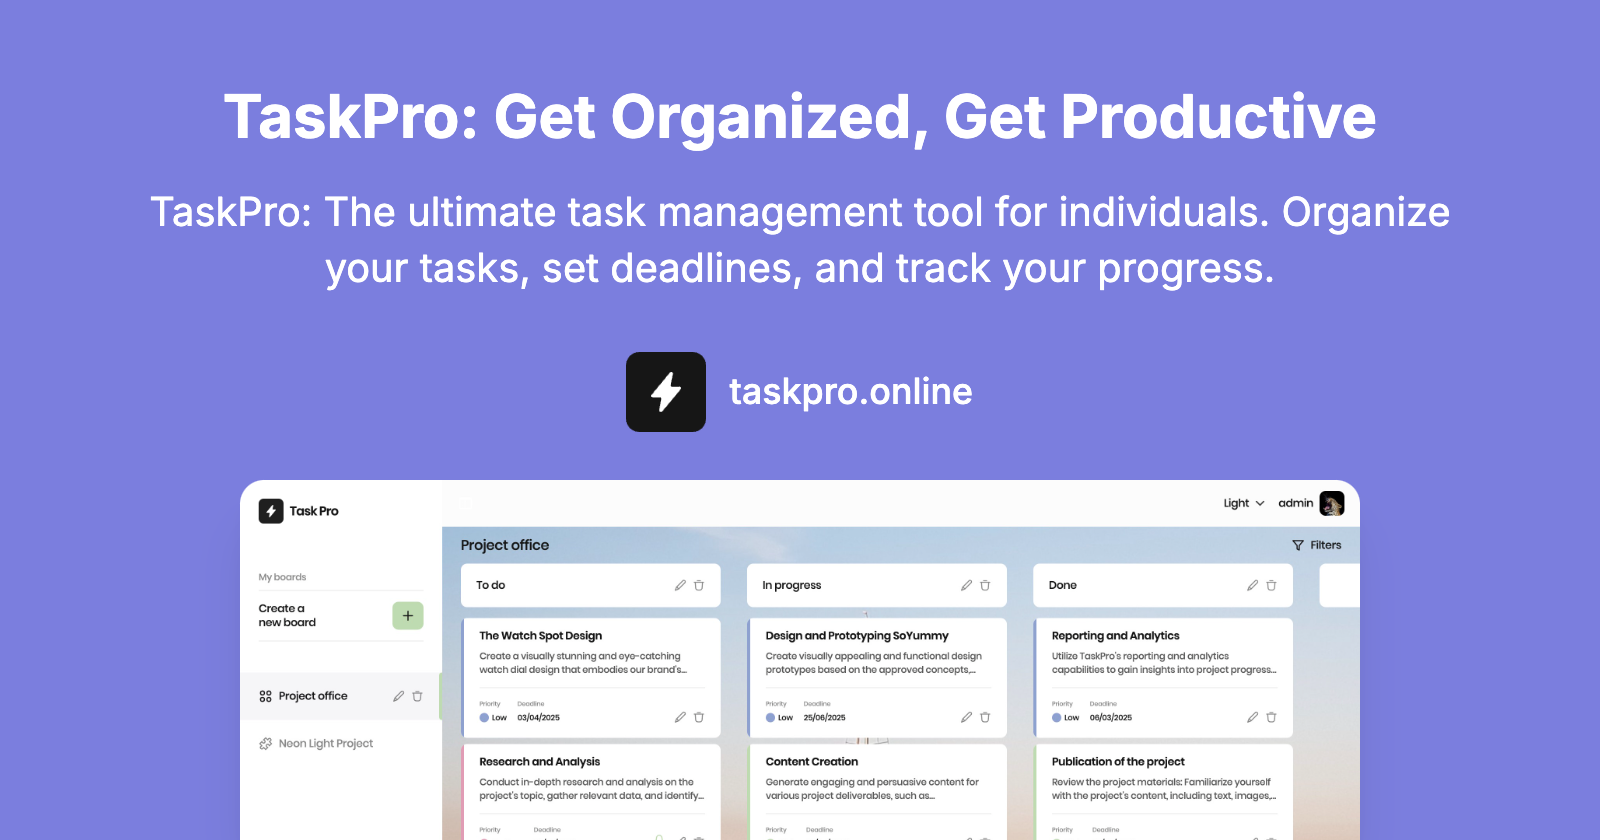
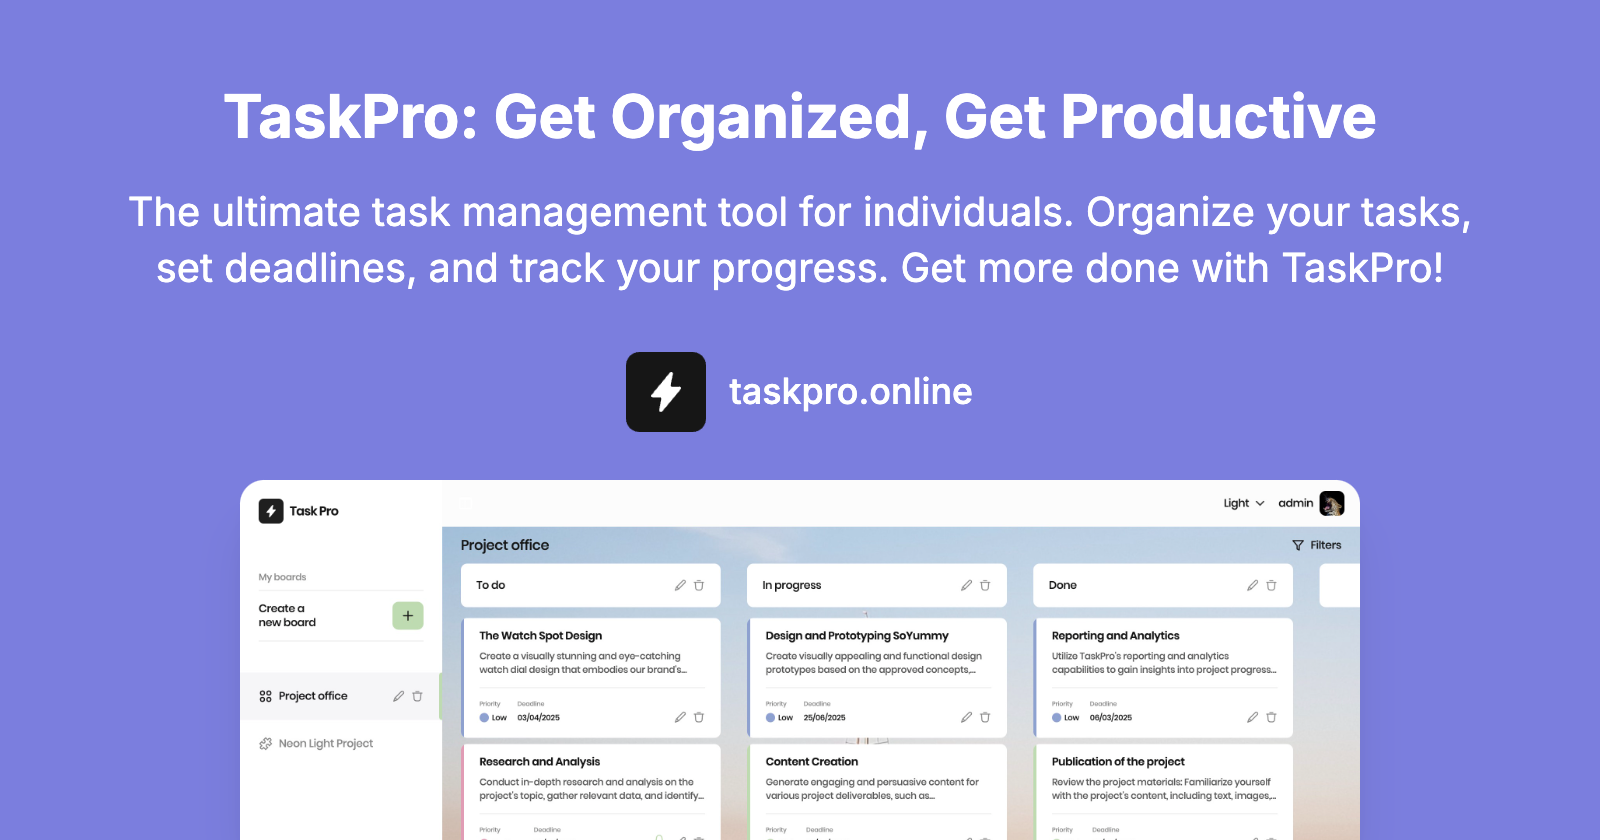
chore: update open graph image

Changed region(s): [[0.0625, 0.2167, 0.9375, 0.3405]]

diff --git a/index.html b/index.html
@@ -7,13 +7,13 @@
       content="width=device-width, initial-scale=1.0" />
     <meta
       name="description"
-      content="TaskPro: The ultimate task management tool for individuals. Organize your tasks, set deadlines, and track your progress. Get more done with TaskPro!" />
+      content="The ultimate task management tool for individuals. Organize your tasks, set deadlines, and track your progress. Get more done with TaskPro!" />
     <meta
       property="og:title"
       content="TaskPro: Get Organized, Get Productive" />
     <meta
       property="og:description"
-      content="TaskPro: The ultimate task management tool for individuals. Organize your tasks, set deadlines, and track your progress. Get more done with TaskPro!" />
+      content="The ultimate task management tool for individuals. Organize your tasks, set deadlines, and track your progress. Get more done with TaskPro!" />
     <meta
       property="og:image"
       content="https://www.taskpro.com/social.png" />
